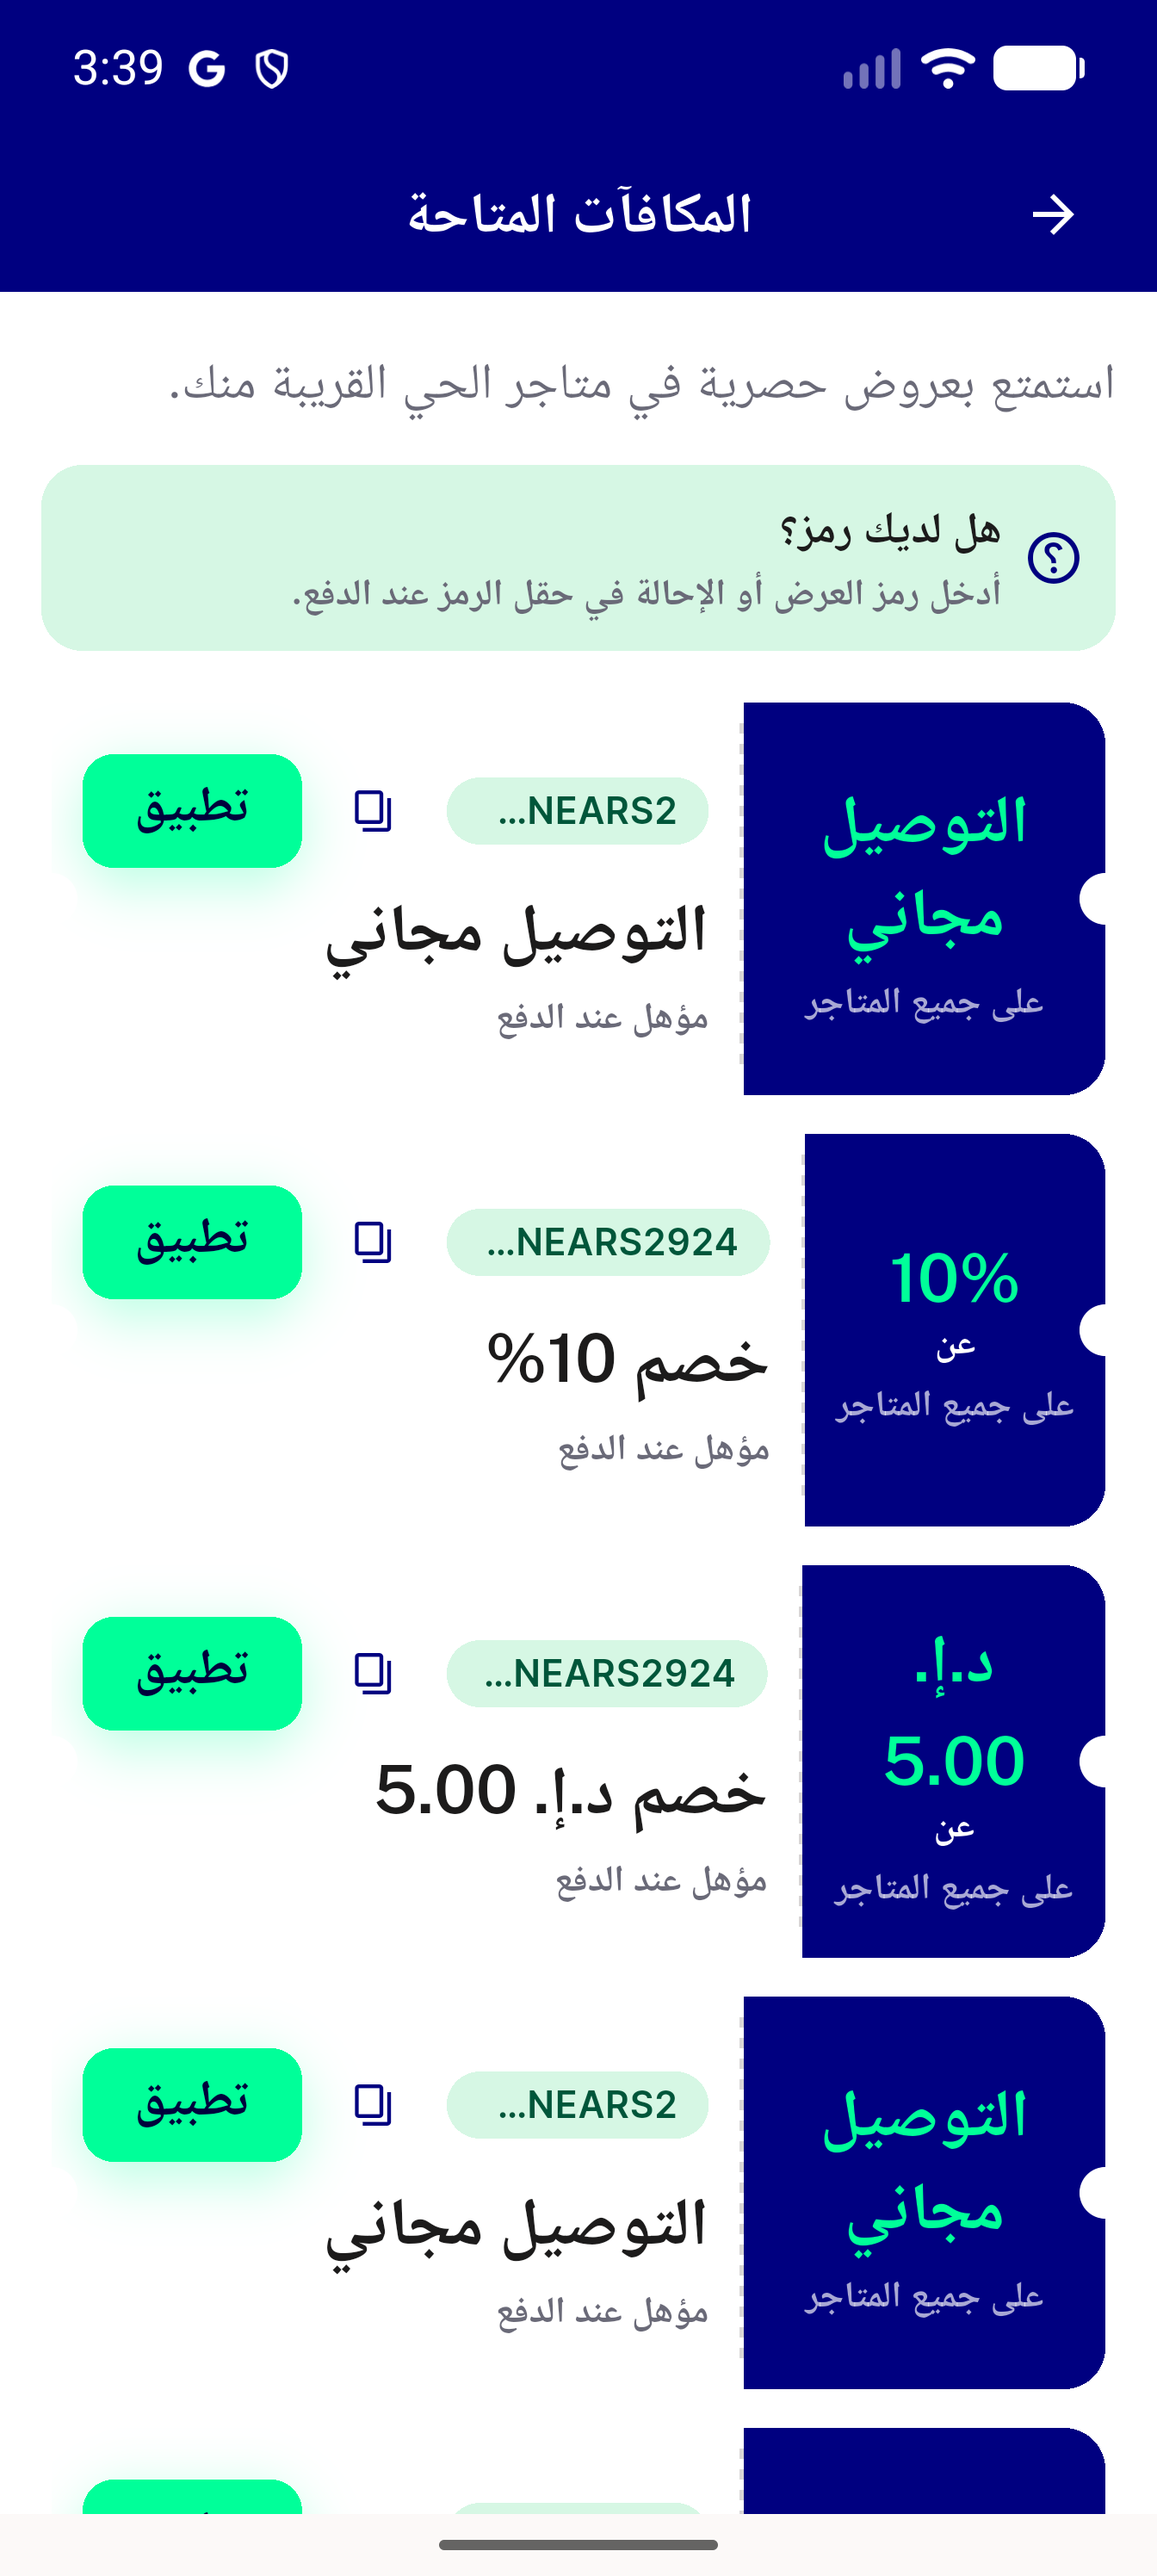
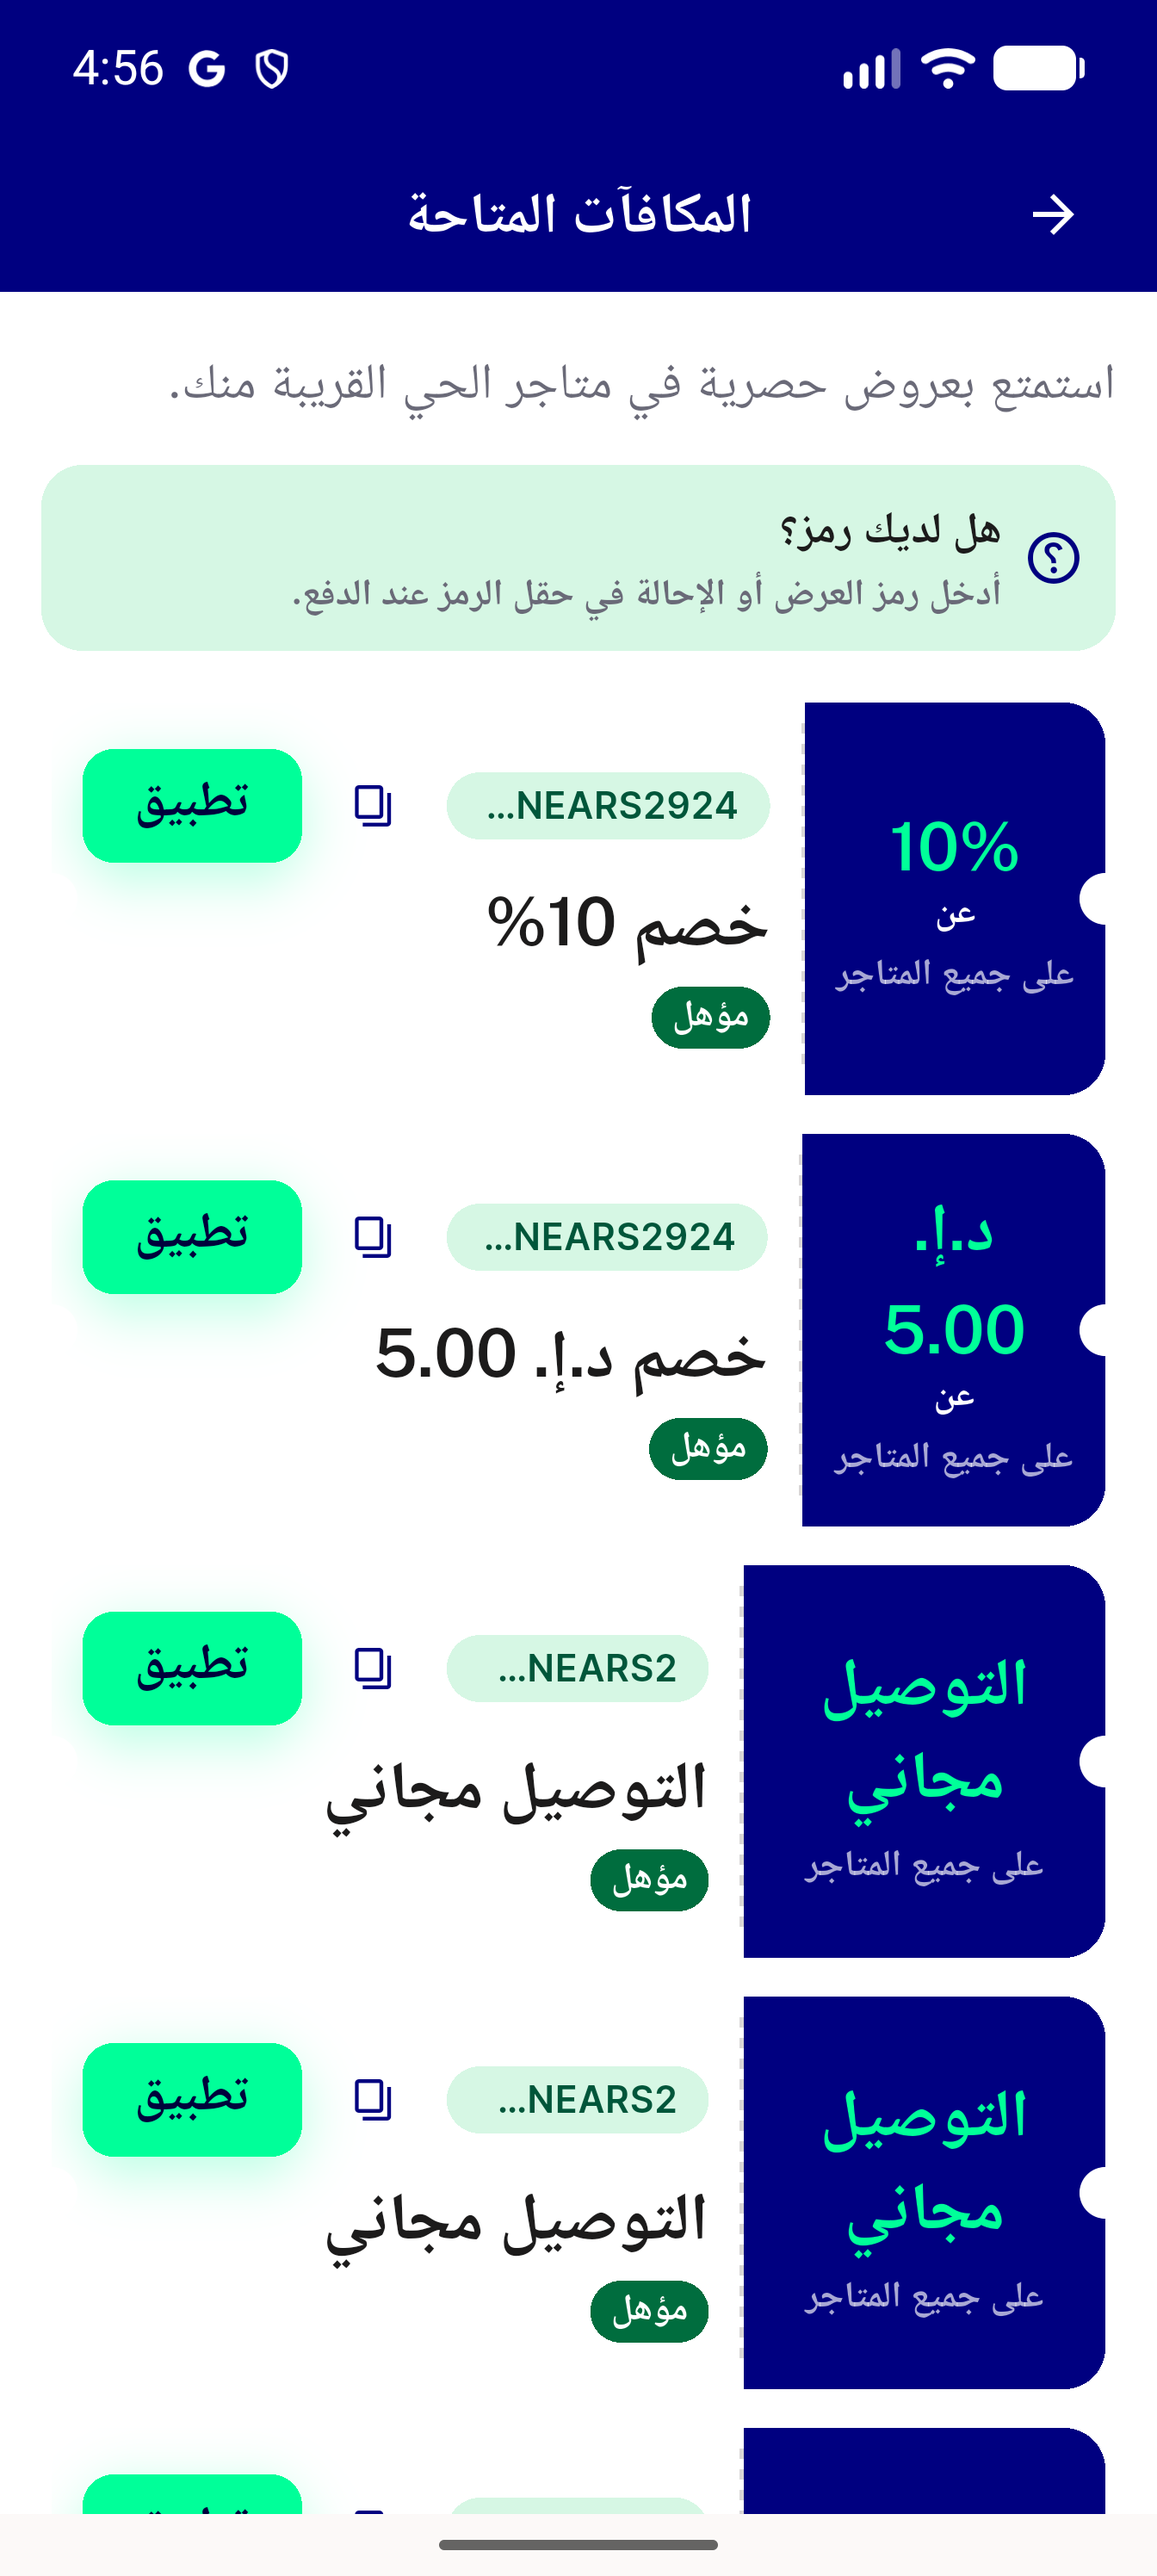
NEARS-3636: publish QA evidence (25 shots)

diff --git a/NEARS-3636/README.md b/NEARS-3636/README.md
@@ -1,42 +1,51 @@
 # QA Evidence — NEARS-3636
 
-**Delta re-QA fix-cycle 2: C3 PASS, C4 FAIL (sibling call-site not covered by fix)**
+**PASS — cycle 2 decisive re-QA, C3+C4+shimmer all confirmed**
 
-**20 screenshot(s).** Click any thumbnail for full resolution.
+**25 screenshot(s).** Click any thumbnail for full resolution.
 
 <table>
 <tr>
 <td align="center" width="33%"><a href="bug-c4-coupon-not-persisted-checkout.png"><img src="bug-c4-coupon-not-persisted-checkout.png" width="240"></a><br><sub>bug c4 coupon not persisted checkout</sub></td>
+<td align="center" width="33%"><a href="c-shimmer-1.3x-ar.png"><img src="c-shimmer-1.3x-ar.png" width="240"></a><br><sub>c shimmer 1.3x ar</sub></td>
+<td align="center" width="33%"><a href="c3-coupons-1.0x-ar.png"><img src="c3-coupons-1.0x-ar.png" width="240"></a><br><sub>c3 coupons 1.0x ar</sub></td>
+</tr>
+<tr>
 <td align="center" width="33%"><a href="c3-coupons-1.0x-en.png"><img src="c3-coupons-1.0x-en.png" width="240"></a><br><sub>c3 coupons 1.0x en</sub></td>
 <td align="center" width="33%"><a href="c3-coupons-1.3x-ar.png"><img src="c3-coupons-1.3x-ar.png" width="240"></a><br><sub>c3 coupons 1.3x ar</sub></td>
+<td align="center" width="33%"><a href="c3-coupons-1.3x-en.png"><img src="c3-coupons-1.3x-en.png" width="240"></a><br><sub>c3 coupons 1.3x en</sub></td>
 </tr>
 <tr>
-<td align="center" width="33%"><a href="c3-coupons-1.3x-en.png"><img src="c3-coupons-1.3x-en.png" width="240"></a><br><sub>c3 coupons 1.3x en</sub></td>
+<td align="center" width="33%"><a href="c4-checkout-coupon-applied.png"><img src="c4-checkout-coupon-applied.png" width="240"></a><br><sub>c4 checkout coupon applied</sub></td>
+<td align="center" width="33%"><a href="c4-second-entry-coupon-cleared.png"><img src="c4-second-entry-coupon-cleared.png" width="240"></a><br><sub>c4 second entry coupon cleared</sub></td>
+<td align="center" width="33%"><a href="c4-stale-checkout-sheet-coupon-cleared.png"><img src="c4-stale-checkout-sheet-coupon-cleared.png" width="240"></a><br><sub>c4 stale checkout sheet coupon cleared</sub></td>
+</tr>
+<tr>
 <td align="center" width="33%"><a href="p15-01-coupons.png"><img src="p15-01-coupons.png" width="240"></a><br><sub>p15 01 coupons</sub></td>
 <td align="center" width="33%"><a href="p15-02-coupons-scrolled.png"><img src="p15-02-coupons-scrolled.png" width="240"></a><br><sub>p15 02 coupons scrolled</sub></td>
+<td align="center" width="33%"><a href="p15-C1-C2-free-truncated-on-all-store__crop.png"><img src="p15-C1-C2-free-truncated-on-all-store__crop.png" width="240"></a><br><sub>p15 C1 C2 free truncated on all store crop</sub></td>
 </tr>
 <tr>
-<td align="center" width="33%"><a href="p15-C1-C2-free-truncated-on-all-store__crop.png"><img src="p15-C1-C2-free-truncated-on-all-store__crop.png" width="240"></a><br><sub>p15 C1 C2 free truncated on all store crop</sub></td>
 <td align="center" width="33%"><a href="p15-C1-C2-free-truncated-on-all-store__full.png"><img src="p15-C1-C2-free-truncated-on-all-store__full.png" width="240"></a><br><sub>p15 C1 C2 free truncated on all store full</sub></td>
 <td align="center" width="33%"><a href="p15-C3-tall-coupon-card__crop.png"><img src="p15-C3-tall-coupon-card__crop.png" width="240"></a><br><sub>p15 C3 tall coupon card crop</sub></td>
+<td align="center" width="33%"><a href="p15-C3-tall-coupon-card__full.png"><img src="p15-C3-tall-coupon-card__full.png" width="240"></a><br><sub>p15 C3 tall coupon card full</sub></td>
 </tr>
 <tr>
-<td align="center" width="33%"><a href="p15-C3-tall-coupon-card__full.png"><img src="p15-C3-tall-coupon-card__full.png" width="240"></a><br><sub>p15 C3 tall coupon card full</sub></td>
 <td align="center" width="33%"><a href="p15-C4-copy-only-action-have-a-code__crop.png"><img src="p15-C4-copy-only-action-have-a-code__crop.png" width="240"></a><br><sub>p15 C4 copy only action have a code crop</sub></td>
 <td align="center" width="33%"><a href="p15-C4-copy-only-action-have-a-code__full.png"><img src="p15-C4-copy-only-action-have-a-code__full.png" width="240"></a><br><sub>p15 C4 copy only action have a code full</sub></td>
+<td align="center" width="33%"><a href="p15-C5-campaign-name-title-dup-code__crop.png"><img src="p15-C5-campaign-name-title-dup-code__crop.png" width="240"></a><br><sub>p15 C5 campaign name title dup code crop</sub></td>
 </tr>
 <tr>
-<td align="center" width="33%"><a href="p15-C5-campaign-name-title-dup-code__crop.png"><img src="p15-C5-campaign-name-title-dup-code__crop.png" width="240"></a><br><sub>p15 C5 campaign name title dup code crop</sub></td>
 <td align="center" width="33%"><a href="p15-C5-campaign-name-title-dup-code__full.png"><img src="p15-C5-campaign-name-title-dup-code__full.png" width="240"></a><br><sub>p15 C5 campaign name title dup code full</sub></td>
 <td align="center" width="33%"><a href="p15-C6-min-500-no-eligibility-cue__crop.png"><img src="p15-C6-min-500-no-eligibility-cue__crop.png" width="240"></a><br><sub>p15 C6 min 500 no eligibility cue crop</sub></td>
+<td align="center" width="33%"><a href="p15-C6-min-500-no-eligibility-cue__full.png"><img src="p15-C6-min-500-no-eligibility-cue__full.png" width="240"></a><br><sub>p15 C6 min 500 no eligibility cue full</sub></td>
 </tr>
 <tr>
-<td align="center" width="33%"><a href="p15-C6-min-500-no-eligibility-cue__full.png"><img src="p15-C6-min-500-no-eligibility-cue__full.png" width="240"></a><br><sub>p15 C6 min 500 no eligibility cue full</sub></td>
 <td align="center" width="33%"><a href="p15-C7-appbar-coupon-singular-basket-icon__crop.png"><img src="p15-C7-appbar-coupon-singular-basket-icon__crop.png" width="240"></a><br><sub>p15 C7 appbar coupon singular basket icon crop</sub></td>
 <td align="center" width="33%"><a href="p15-C7-appbar-coupon-singular-basket-icon__full.png"><img src="p15-C7-appbar-coupon-singular-basket-icon__full.png" width="240"></a><br><sub>p15 C7 appbar coupon singular basket icon full</sub></td>
+<td align="center" width="33%"><a href="p15-C9-5AED-no-space__crop.png"><img src="p15-C9-5AED-no-space__crop.png" width="240"></a><br><sub>p15 C9 5AED no space crop</sub></td>
 </tr>
 <tr>
-<td align="center" width="33%"><a href="p15-C9-5AED-no-space__crop.png"><img src="p15-C9-5AED-no-space__crop.png" width="240"></a><br><sub>p15 C9 5AED no space crop</sub></td>
 <td align="center" width="33%"><a href="p15-C9-5AED-no-space__full.png"><img src="p15-C9-5AED-no-space__full.png" width="240"></a><br><sub>p15 C9 5AED no space full</sub></td>
 </tr>
 </table>
